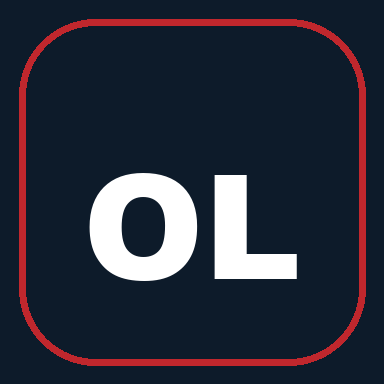
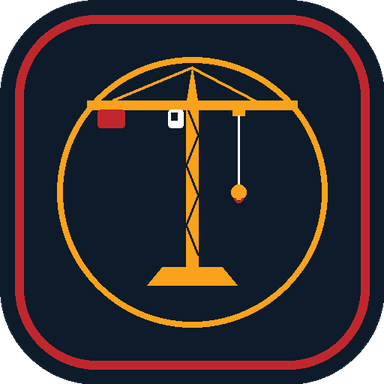
Add files via upload
reworked assets

Changed region(s): [[0.125, 0.125, 0.875, 0.875], [0.0, 0.0, 1.0, 1.0]]

diff --git a/auth.js b/auth.js
@@ -62,7 +62,7 @@ export function renderLogin() {
         <div class="hero-bg" style="position:absolute;inset:0;background-image:url('hero_bg.png');background-size:cover;background-position:center;filter:brightness(0.25)"></div>
         <div style="position:relative;z-index:1;padding:3rem;display:flex;flex-direction:column;justify-content:space-between;height:100%">
           <div>
-            <div class="nav-logo-mark" style="width:56px;height:56px;font-size:1.2rem;margin-bottom:1.5rem">OL</div>
+            <div class="nav-logo-mark" style="width:56px;height:56px;font-size:1.2rem;margin-bottom:1.5rem">🏗</div>
             <h1 style="font-family:var(--font-heading);font-size:var(--text-3xl);font-weight:800;line-height:1.15;color:white;margin-bottom:1rem">
               Trygg opplæring.<br>
               <span class="text-gradient-gold">Overalt.</span>
@@ -95,7 +95,7 @@ export function renderLogin() {
             </div>
           </div>
           <div style="color:var(--color-text-muted);font-size:var(--text-xs)">
-            © 2024 Oslo Liftutleie AS · Typeopplæring.no
+            © 2024 Oslo Liftutleie AS · Sikkerhet & Opplæring
           </div>
         </div>
       </div>
@@ -105,10 +105,10 @@ export function renderLogin() {
         <div class="auth-card animate-fadeInUp">
           <!-- Logo (mobile only) -->
           <div style="display:flex;align-items:center;gap:0.75rem;margin-bottom:2.5rem" class="show-mobile-only hide-desktop">
-            <div class="nav-logo-mark">OL</div>
+            <div class="nav-logo-mark">🏗</div>
             <div>
-              <div class="nav-logo-name">Typeopplæring.no</div>
-              <div class="nav-logo-tag">Oslo Liftutleie</div>
+              <div class="nav-logo-name">Oslo Liftutleie</div>
+              <div class="nav-logo-tag">Sikkerhet & Opplæring</div>
             </div>
           </div>
 
@@ -184,7 +184,7 @@ export function renderRegister() {
       <div class="auth-panel-left">
         <div style="position:absolute;inset:0;background-image:url('hero_bg.png');background-size:cover;background-position:center;filter:brightness(0.2)"></div>
         <div style="position:relative;z-index:1;padding:3rem;display:flex;flex-direction:column;justify-content:center;height:100%;gap:2rem">
-          <div class="nav-logo-mark" style="width:56px;height:56px;font-size:1.2rem">OL</div>
+          <div class="nav-logo-mark" style="width:56px;height:56px;font-size:1.2rem">🏗</div>
           <div>
             <div class="section-label" style="margin-bottom:1rem">299 NOK per godkjenning</div>
             <h1 style="font-family:var(--font-heading);font-size:var(--text-3xl);font-weight:800;color:white;margin-bottom:1rem">Din karriere.<br><span class="text-gradient-gold">Din dokumentasjon.</span></h1>
@@ -203,8 +203,8 @@ export function renderRegister() {
       <div class="auth-panel-right" style="padding-top:2rem;padding-bottom:2rem">
         <div class="auth-card animate-fadeInUp" style="max-width:480px">
           <div style="display:flex;align-items:center;gap:0.75rem;margin-bottom:2rem" class="show-mobile-only hide-desktop">
-            <div class="nav-logo-mark">OL</div>
-            <div class="nav-logo-name">Typeopplæring.no</div>
+            <div class="nav-logo-mark">🏗</div>
+            <div class="nav-logo-name">Oslo Liftutleie</div>
           </div>
 
           <h2 style="font-family:var(--font-heading);font-size:var(--text-2xl);font-weight:800;margin-bottom:0.375rem">${t('auth.register.title')}</h2>
@@ -357,7 +357,7 @@ export function renderForgotPassword() {
     <div style="min-height:100vh;display:flex;align-items:center;justify-content:center;padding:2rem;background:var(--color-bg)">
       <div style="width:100%;max-width:420px" class="animate-scaleIn">
         <div style="text-align:center;margin-bottom:2rem">
-          <div class="nav-logo-mark" style="width:56px;height:56px;font-size:1.2rem;margin:0 auto 1rem">OL</div>
+          <div class="nav-logo-mark" style="width:56px;height:56px;font-size:1.2rem;margin:0 auto 1rem">🏗</div>
           <h2 style="font-family:var(--font-heading);font-size:var(--text-2xl);font-weight:800;margin-bottom:0.5rem">${t('auth.forgot.title')}</h2>
           <p style="color:var(--color-text-secondary);font-size:var(--text-sm)">${t('auth.forgot.subtitle')}</p>
         </div>

diff --git a/index.html b/index.html
@@ -6,21 +6,21 @@
   <meta http-equiv="X-UA-Compatible" content="IE=edge" />
 
   <!-- SEO -->
-  <title>Typeopplæring.no — Digital Sikkerhetsopplæring | Oslo Liftutleie</title>
-  <meta name="description" content="Digital typegodkjenning for tungt maskineri. 140+ kursmoduler, offisielle diplomer og QR-basert sertifisering for operatører av Oslo Liftutleie." />
+  <title>Oslo Liftutleie — Digital Sikkerhetsopplæring</title>
+  <meta name="description" content="Digital typegodkjenning og sikkerhetsopplæring for tungt maskineri. 140+ kursmoduler, offisielle diplomer og QR-basert sertifisering for operatører av Oslo Liftutleie." />
   <meta name="keywords" content="typeopplæring, sikkerhetsopplæring, maskinopplæring, sakselifter, bomlifter, oslo liftutleie, kurs, diplom, sertifisering" />
   <meta name="author" content="Oslo Liftutleie AS" />
   <meta name="robots" content="index, follow" />
   <link rel="canonical" href="https://typeopplaering.no/" />
 
   <!-- Open Graph -->
-  <meta property="og:title" content="Typeopplæring.no — Oslo Liftutleie" />
+  <meta property="og:title" content="Oslo Liftutleie — Sikkerhet & Opplæring" />
   <meta property="og:description" content="Sertifiser deg i tungmaskinopplæring. 299 NOK per godkjenning. Offisielt diplom til CV og LinkedIn." />
   <meta property="og:type" content="website" />
   <meta property="og:url" content="https://typeopplaering.no/" />
   <meta property="og:image" content="https://typeopplaering.no/assets/images/og-image.jpg" />
   <meta property="og:locale" content="nb_NO" />
-  <meta property="og:site_name" content="Typeopplæring.no" />
+  <meta property="og:site_name" content="Oslo Liftutleie" />
 
   <!-- Twitter Card -->
   <meta name="twitter:card" content="summary_large_image" />
@@ -34,7 +34,7 @@
   <meta name="mobile-web-app-capable" content="yes" />
   <meta name="apple-mobile-web-app-capable" content="yes" />
   <meta name="apple-mobile-web-app-status-bar-style" content="black-translucent" />
-  <meta name="apple-mobile-web-app-title" content="Typeopplæring" />
+  <meta name="apple-mobile-web-app-title" content="Oslo Liftutleie" />
   <meta name="msapplication-TileColor" content="#C0272D" />
   <meta name="msapplication-navbutton-color" content="#0B1623" />
 
@@ -231,8 +231,8 @@
   {
     "@context": "https://schema.org",
     "@type": "EducationalOrganization",
-    "name": "Typeopplæring.no",
-    "alternateName": "Oslo Liftutleie Typeopplæring",
+    "name": "Oslo Liftutleie",
+    "alternateName": "Oslo Liftutleie Sikkerhet & Opplæring",
     "url": "https://typeopplaering.no",
     "description": "Digital sikkerhetsopplæring og typegodkjenning for operatører av tungt maskineri.",
     "parentOrganization": {
@@ -252,11 +252,11 @@
 <body>
 
   <!-- App Loading Screen -->
-  <div id="app-loader" role="status" aria-label="Laster Typeopplæring.no">
-    <div class="app-loader-logo" aria-hidden="true">OL</div>
+  <div id="app-loader" role="status" aria-label="Laster Oslo Liftutleie">
+    <div class="app-loader-logo" aria-hidden="true">🏗</div>
     <div class="app-loader-text">
-      <div class="app-loader-title">Typeopplæring.no</div>
-      <div class="app-loader-sub">Oslo Liftutleie</div>
+      <div class="app-loader-title">Oslo Liftutleie</div>
+      <div class="app-loader-sub">Sikkerhet & Opplæring</div>
     </div>
     <div class="app-loader-bar" aria-hidden="true">
       <div class="app-loader-fill"></div>
@@ -269,7 +269,7 @@
       <div>
         <div style="font-size:3rem;margin-bottom:1rem">⚠</div>
         <h1 style="font-family:Montserrat,sans-serif;color:#fff;margin-bottom:0.5rem">JavaScript påkrevd</h1>
-        <p style="color:#94A3B8">Typeopplæring.no krever JavaScript for å fungere. Aktiver JavaScript i nettleseren din.</p>
+        <p style="color:#94A3B8">Oslo Liftutleie krever JavaScript for å fungere. Aktiver JavaScript i nettleseren din.</p>
       </div>
     </div>
   </noscript>

diff --git a/certificate.js b/certificate.js
@@ -36,7 +36,7 @@ export async function renderCertificate(params) {
           <!-- Header -->
           <div style="text-align:center;margin-bottom:var(--space-8)" class="animate-fadeInDown">
             <div style="font-size:4rem;margin-bottom:var(--space-3)">🏆</div>
-            <div class="section-label" style="justify-content:center">Oslo Liftutleie · Typeopplæring.no</div>
+            <div class="section-label" style="justify-content:center">Oslo Liftutleie · Sikkerhet & Opplæring</div>
             <h1 style="font-family:var(--font-heading);font-size:var(--text-3xl);font-weight:900;margin-bottom:var(--space-2)">${t('cert.title')}</h1>
             <p style="color:var(--color-text-secondary)">${t('cert.subtitle')}</p>
           </div>
@@ -126,10 +126,10 @@ function renderCertificateTemplate(cert, equipment, certDate, eqName, verifyUrl,
         <!-- Header Row -->
         <div style="display:flex;align-items:center;justify-content:space-between;margin-bottom:2rem">
           <div style="display:flex;align-items:center;gap:0.875rem">
-            <div style="width:48px;height:48px;background:linear-gradient(135deg,#C0272D,#8B1A1E);border-radius:10px;display:flex;align-items:center;justify-content:center;font-family:var(--font-heading);font-weight:900;font-size:1rem;color:#fff;box-shadow:0 4px 16px rgba(192,39,45,0.4)">OL</div>
+            <div style="width:48px;height:48px;background:linear-gradient(135deg,#C0272D,#8B1A1E);border-radius:10px;display:flex;align-items:center;justify-content:center;font-family:var(--font-heading);font-weight:900;font-size:1rem;color:#fff;box-shadow:0 4px 16px rgba(192,39,45,0.4)">🏗</div>
             <div>
               <div style="font-family:var(--font-heading);font-weight:800;font-size:0.85rem;color:#fff;letter-spacing:-0.01em">Oslo Liftutleie</div>
-              <div style="font-size:0.6rem;color:rgba(250,162,27,0.8);letter-spacing:0.12em;text-transform:uppercase">Typeopplæring.no</div>
+              <div style="font-size:0.6rem;color:rgba(250,162,27,0.8);letter-spacing:0.12em;text-transform:uppercase">Sikkerhet & Opplæring</div>
             </div>
           </div>
           <div style="text-align:right">
@@ -303,9 +303,9 @@ export async function renderVerify(params) {
 
           <!-- Logo -->
           <div style="text-align:center;margin-bottom:var(--space-8)">
-            <div class="nav-logo-mark" style="width:56px;height:56px;font-size:1.2rem;margin:0 auto var(--space-4)">OL</div>
+            <div class="nav-logo-mark" style="width:56px;height:56px;font-size:1.2rem;margin:0 auto var(--space-4)">🏗</div>
             <h1 style="font-family:var(--font-heading);font-size:var(--text-2xl);font-weight:800;margin-bottom:0.5rem">Diplom-verifikasjon</h1>
-            <p style="color:var(--color-text-secondary);font-size:var(--text-sm)">Typeopplæring.no · Oslo Liftutleie</p>
+            <p style="color:var(--color-text-secondary);font-size:var(--text-sm)">Oslo Liftutleie · Sikkerhet & Opplæring</p>
           </div>
 
           ${found && cert ? `
@@ -381,7 +381,7 @@ export async function renderCV(params) {
             <h1 style="font-family:var(--font-heading);font-size:var(--text-3xl);font-weight:900;margin-bottom:var(--space-2)">${name}</h1>
             ${user?.company ? `<p style="color:var(--color-gold);font-weight:600;margin-bottom:var(--space-2)">${user.company}</p>` : ''}
             <p style="color:var(--color-text-muted);font-size:var(--text-sm)">
-              ${certs.length} typegodkjenning${certs.length !== 1 ? 'er' : ''} · Typeopplæring.no
+              ${certs.length} typegodkjenning${certs.length !== 1 ? 'er' : ''} · Sikkerhet & Opplæring
             </p>
             <div style="margin-top:var(--space-5);display:flex;gap:var(--space-3);justify-content:center;flex-wrap:wrap">
               <button class="btn btn-ghost btn-sm" id="copy-cv-link">📋 Kopier CV-lenke</button>

diff --git a/app.js b/app.js
@@ -389,10 +389,10 @@ function renderHomeView() {
         <div style="display:grid;grid-template-columns:2fr 1fr 1fr 1fr;gap:var(--space-8);margin-bottom:var(--space-8)" class="grid-cols-1 grid-cols-4">
           <div>
             <div style="display:flex;align-items:center;gap:0.75rem;margin-bottom:1rem">
-              <div class="nav-logo-mark">OL</div>
+              <div class="nav-logo-mark">🏗</div>
               <div>
-                <div class="nav-logo-name">Typeopplæring.no</div>
-                <div class="nav-logo-tag">Oslo Liftutleie</div>
+                <div class="nav-logo-name">Oslo Liftutleie</div>
+                <div class="nav-logo-tag">Sikkerhet & Opplæring</div>
               </div>
             </div>
             <p style="color:var(--color-text-muted);font-size:var(--text-sm);line-height:1.7;max-width:280px">
@@ -414,7 +414,7 @@ function renderHomeView() {
         </div>
         <div class="divider"></div>
         <div style="display:flex;align-items:center;justify-content:space-between;flex-wrap:wrap;gap:1rem">
-          <p style="color:var(--color-text-muted);font-size:var(--text-xs)">© 2024 Oslo Liftutleie AS. Alle rettigheter reservert. · Org.nr: 123 456 789 · Typeopplæring.no</p>
+          <p style="color:var(--color-text-muted);font-size:var(--text-xs)">© 2024 Oslo Liftutleie AS. Alle rettigheter reservert. · Org.nr: 123 456 789 · Sikkerhet & Opplæring</p>
           <div style="display:flex;gap:1rem">
             ${['🇳🇴 Norsk', 'GDPR', 'Personvern'].map(l => `<span style="color:var(--color-text-muted);font-size:var(--text-xs)">${l}</span>`).join('<span style="color:var(--color-border)">·</span>')}
           </div>
@@ -513,10 +513,10 @@ const App = {
       <nav class="top-nav" id="top-nav">
         <div class="nav-inner">
           <a href="#/" class="nav-logo" id="nav-logo">
-            <div class="nav-logo-mark">OL</div>
+            <div class="nav-logo-mark">🏗</div>
             <div class="nav-logo-text hide-mobile">
-              <span class="nav-logo-name">Typeopplæring.no</span>
-              <span class="nav-logo-tag">Oslo Liftutleie</span>
+              <span class="nav-logo-name">Oslo Liftutleie</span>
+              <span class="nav-logo-tag">Sikkerhet & Opplæring</span>
             </div>
           </a>
 
@@ -575,8 +575,8 @@ const App = {
       <div class="drawer" id="side-drawer">
         <div class="drawer-header">
           <div style="display:flex;align-items:center;gap:0.75rem">
-            <div class="nav-logo-mark" style="width:32px;height:32px;font-size:0.75rem">OL</div>
-            <span style="font-size:var(--text-sm);font-weight:700">Typeopplæring.no</span>
+            <div class="nav-logo-mark" style="width:32px;height:32px;font-size:0.75rem">🏗</div>
+            <span style="font-size:var(--text-sm);font-weight:700">Oslo Liftutleie</span>
           </div>
           <div class="drawer-close" onclick="window.__app?.closeDrawer()">✕</div>
         </div>

diff --git a/i18n.js b/i18n.js
@@ -57,8 +57,8 @@ const translations = {
     'auth.forgot.sent':     'E-post sendt! Sjekk innboksen din.',
 
     // ── Home / Hero ──────────────────────────────────────────
-    'home.hero.tag':         'Typeopplæring.no',
-    'home.hero.title':       'Sertifiser deg i\nTypeopplæring',
+    'home.hero.tag':         'Oslo Liftutleie',
+    'home.hero.title':       'Sertifiser deg i\nSikkerhet & Opplæring',
     'home.hero.subtitle':    'Digital sikkerhetsopplæring for tungt maskineri — raskt, lovlig og anerkjent av Oslo Liftutleie.',
     'home.hero.cta':         'Start opplæring',
     'home.hero.cta2':        'Se maskinkataloget',
@@ -276,8 +276,8 @@ const translations = {
     'auth.forgot.sent':     'Email sent! Check your inbox.',
 
     // ── Home / Hero ──────────────────────────────────────────
-    'home.hero.tag':         'Typeopplæring.no',
-    'home.hero.title':       'Get Certified in\nType Approval',
+    'home.hero.tag':         'Oslo Liftutleie',
+    'home.hero.title':       'Get Certified in\nSafety & Training',
     'home.hero.subtitle':    'Digital safety training for heavy machinery — fast, legal, and recognized by Oslo Liftutleie.',
     'home.hero.cta':         'Start Training',
     'home.hero.cta2':        'Browse Machines',

diff --git a/sw.js b/sw.js
@@ -135,7 +135,7 @@ self.addEventListener('push', event => {
   if (!event.data) return;
   const data = event.data.json();
   event.waitUntil(
-    self.registration.showNotification(data.title || 'Typeopplæring.no', {
+    self.registration.showNotification(data.title || 'Oslo Liftutleie', {
       body: data.body || 'Du har en ny varsling',
       icon: './icon-192.png',
       badge: './icon-96.png',
